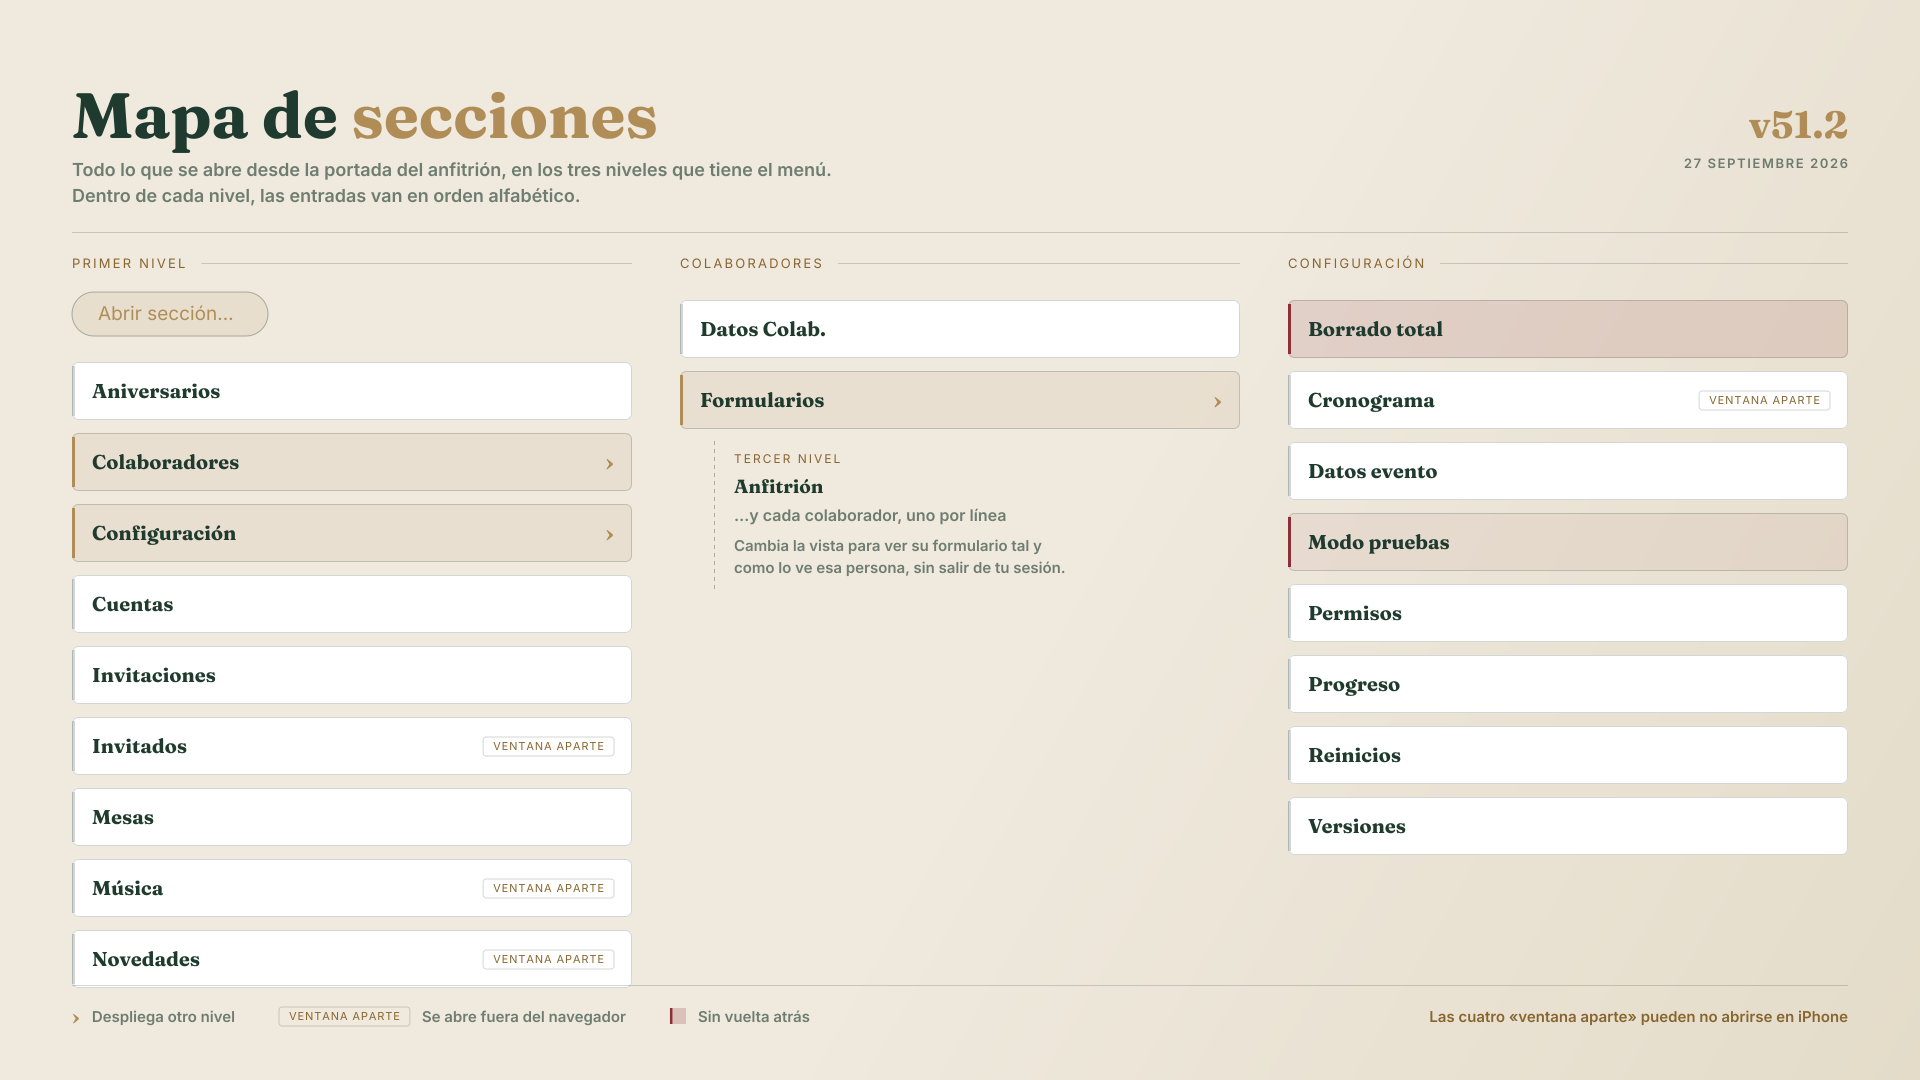
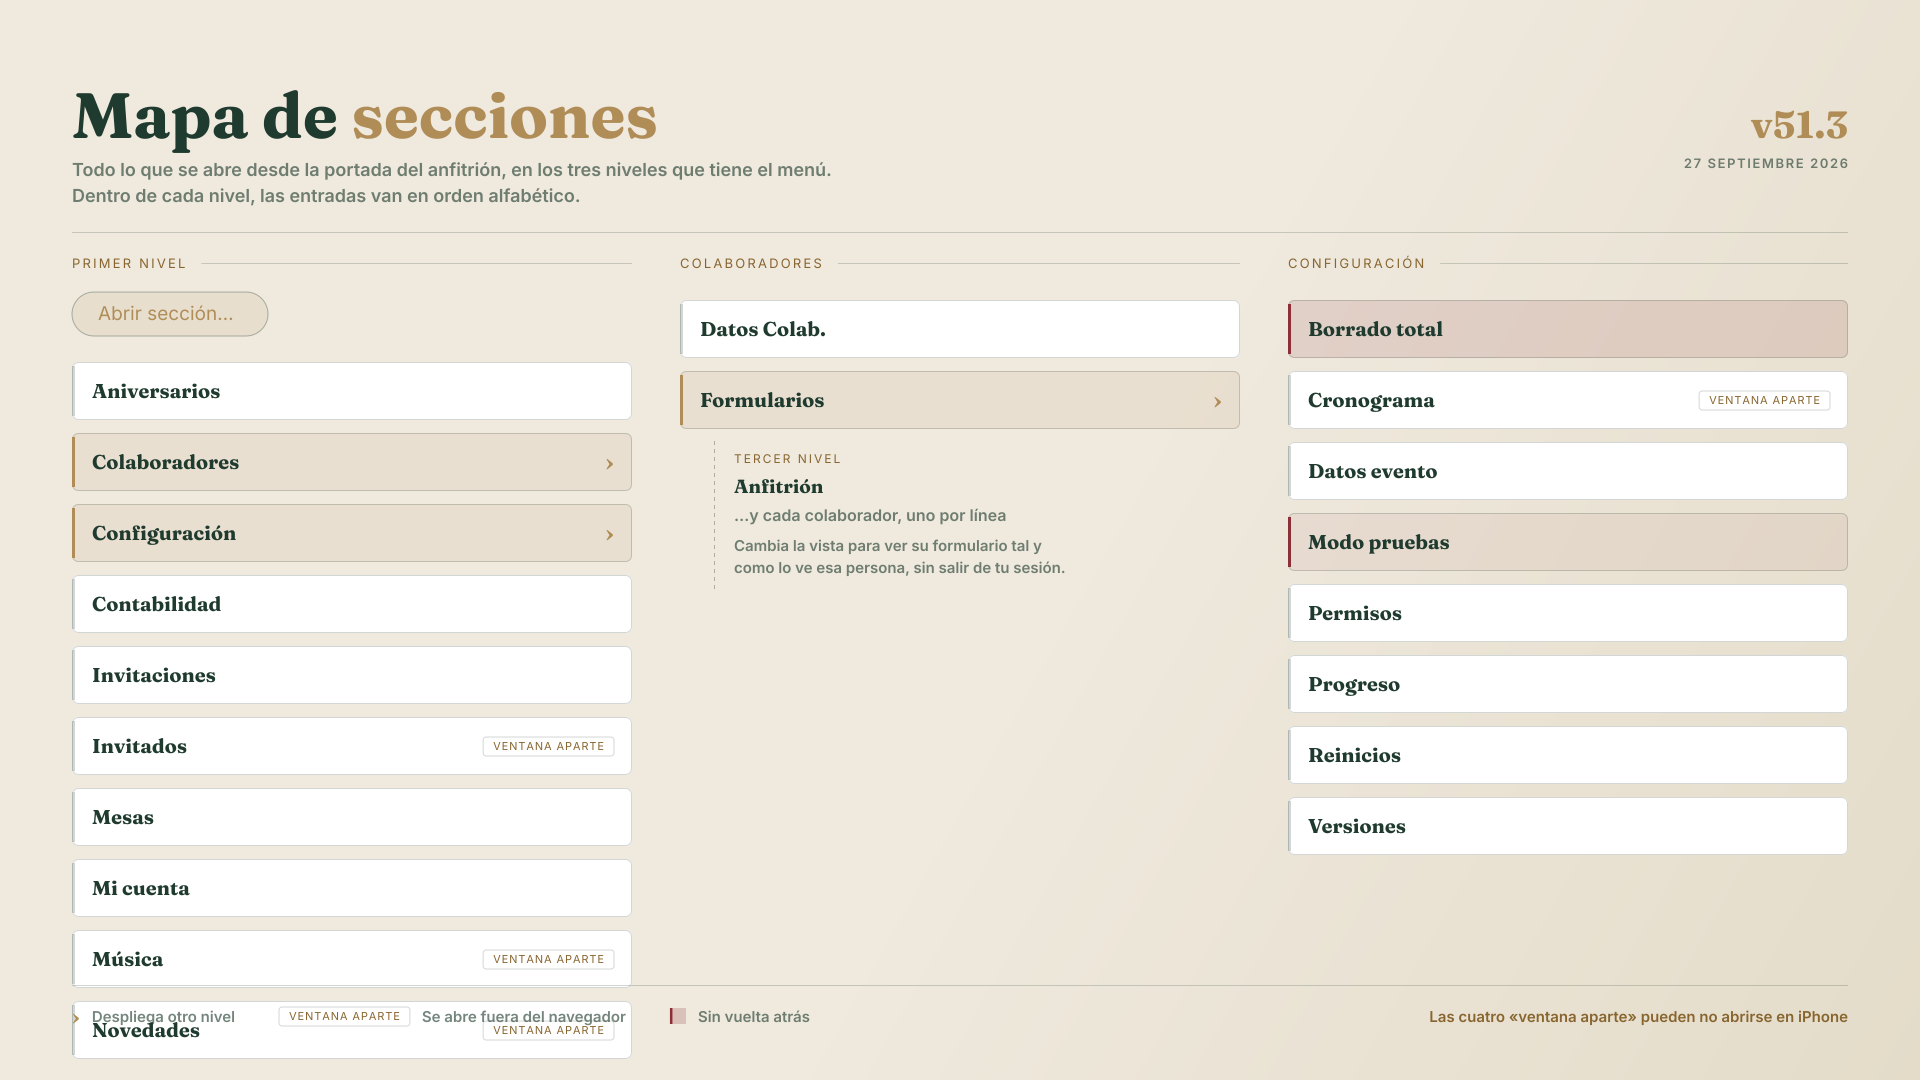
51.3: «Cuentas» pasa a «Contabilidad» y «Mi cuenta» en champán en el menú

diff --git a/src/vistas/VistaColaborador.jsx b/src/vistas/VistaColaborador.jsx
@@ -36,7 +36,7 @@ import { SectionTitle, Field, TextInput } from "../components/Formulario";
 import { ModalFlotante, VentanaFlotante } from "../components/VentanaFlotante";
 import { HuecoFoto, estiloMarcoFoto } from "../components/HuecoFoto";
 import { SeccionPlegable } from "../components/SeccionPlegable";
-import { BotonAbrirSeccion } from "../components/DesplegableSecciones";
+import { BotonAbrirSeccion, ESTILO_MI_CUENTA } from "../components/DesplegableSecciones";
 import { Boton, estilosBoton, EnlaceTexto } from "../components/Boton";
 import { usePreguntaSeguridad } from "../components/PreguntaSeguridad";
 import { Portada } from "../components/Portada";
@@ -1216,7 +1216,7 @@ export function VistaColaborador({ data, colaboradorId, esAnfitrionOriginal, set
                 puedeEditarDatosEvento && { id: "datos-evento", etiqueta: "Datos evento", icono: Calendar, onClick: () => setVentanaDatosEventoAbierta(true) },
                 { id: "formulario", etiqueta: "Formulario", icono: ClipboardList, onClick: () => setFormularioAbierto(true), sello: pendientes.length },
                 puedeEnviarInvitaciones && { id: "invitaciones", etiqueta: "Invitaciones", icono: Send, onClick: () => setVentanaInvitacionesAbierta(true) },
-                onCerrarSesion && { id: "mi-cuenta", etiqueta: "Mi cuenta", icono: UserCog, onClick: () => setMiCuentaAbierta(true) },
+                onCerrarSesion && { id: "mi-cuenta", etiqueta: "Mi cuenta", icono: UserCog, onClick: () => setMiCuentaAbierta(true), ...ESTILO_MI_CUENTA },
                 puedeEditarNovedades && { id: "novedades", etiqueta: "Novedades", icono: Megaphone, onClick: abrirNovedades },
               ].filter(Boolean)}
             />
@@ -1300,7 +1300,7 @@ export function VistaColaborador({ data, colaboradorId, esAnfitrionOriginal, set
 
             <SeccionPlegable
               icono={Euro}
-              titulo="Estado de cuentas"
+              titulo="Contabilidad"
               resumen={`Pendiente ${formatoEuro(importePendiente)}`}
               abierta={abiertoId === "cuentas"}
               onAlternar={() => setAbiertoId((a) => (hayFicha(a) ? a : a === "cuentas" ? null : "cuentas"))}

diff --git a/src/components/DesplegableSecciones.jsx b/src/components/DesplegableSecciones.jsx
@@ -76,6 +76,12 @@ export const SUBMENU_CONFIGURACION = [
   { id: "versiones", etiqueta: "Versiones", icono: History },
 ];
 
+// "Mi cuenta" es una línea especial, pero no de peligro (él, v51.3): relleno
+// champán y letra verde, con el mismo contorno dorado que las demás. El
+// rojo se queda para lo que borra (Borrado total, Modo pruebas). La misma
+// en el menú del anfitrión y en el del colaborador (norma 7).
+export const ESTILO_MI_CUENTA = { fondo: C.champanClaro, color: C.ink };
+
 // `posicion`: dónde flota el botón dentro de su contenedor (por defecto,
 // esquina inferior derecha) -- Portada.jsx lo reposiciona sobre la propia
 // imagen ("a los pies de la pareja", a petición del usuario, 2026-08-12),
@@ -209,6 +215,7 @@ export function DesplegableSecciones({
       etiqueta: "Mi cuenta",
       icono: UserCog,
       onClick: abrirMiCuenta,
+      ...ESTILO_MI_CUENTA,
     });
   }
 

diff --git a/src/vistas/anfitrion/VentanasClave.pantalla.test.jsx b/src/vistas/anfitrion/VentanasClave.pantalla.test.jsx
@@ -1,4 +1,4 @@
-// Cronograma y Estado de cuentas, DIBUJADAS de verdad.
+// Cronograma y Contabilidad, DIBUJADAS de verdad.
 //
 // Las otras dos que faltaban tras la Lista de invitados y la pantalla del
 // colaborador: el Cronograma porque es la que más se toca, y Cuentas
@@ -97,12 +97,12 @@ describe("el Cronograma se puede dibujar", () => {
   });
 });
 
-describe("Estado de cuentas se puede dibujar", () => {
+describe("Contabilidad se puede dibujar", () => {
   const dibujar = (extra = {}) =>
     dibujarYSoltar(<VentanaCuentas data={{ ...data, ...extra }} onCerrar={() => {}} />);
 
   it("con sus tres partes plegadas", () => {
-    expect(dibujar()).toContain("Estado de cuentas");
+    expect(dibujar()).toContain("Contabilidad");
   });
 
   it("sin gastos y sin colaboradores tampoco se cae", () => {

diff --git a/src/vistas/anfitrion/VentanaVersiones.jsx b/src/vistas/anfitrion/VentanaVersiones.jsx
@@ -42,6 +42,12 @@ const RESUMEN_VERSIONES_ANTERIORES = [
 // leer de un vistazo.
 const HISTORIAL_VERSIONES = [
   {
+    version: "51.3",
+    cambios: [
+      "\"Cuentas\" se llama ahora \"Contabilidad\", en el menú, en su ventana y en el panel del colaborador: así no se confunde con \"Mi cuenta\". Y \"Mi cuenta\" se distingue en el menú con fondo champán y letra verde, sin el rojo, que se queda para lo que borra.",
+    ],
+  },
+  {
     version: "51.2",
     cambios: [
       "El sello rojo vuelve a la derecha, como en \"Abrir sección…\". En las líneas del menú va montado sobre el final del texto, para que el borde no lo corte.",

diff --git a/scripts/dibujar-mapa.test.js b/scripts/dibujar-mapa.test.js
@@ -37,7 +37,8 @@ function etiquetasDelScript(nombre) {
 
 describe("el plano de la aplicación lista las mismas secciones que el menú", () => {
   it("primer nivel: las secciones de \"Abrir sección...\"", () => {
-    const enLaApp = ORDEN_VENTANAS.map((clave) => ETIQUETAS_VENTANAS[clave]);
+    // "Mi cuenta" no es una ventana flotante, pero vive en el menú (v51).
+    const enLaApp = [...ORDEN_VENTANAS.map((clave) => ETIQUETAS_VENTANAS[clave]), "Mi cuenta"];
     expect(etiquetasDelScript("nivel1").sort()).toEqual([...enLaApp].sort());
   });
 

diff --git a/src/constants.js b/src/constants.js
@@ -1,6 +1,6 @@
 // Constantes de app compartidas entre App.jsx y los componentes bajo
 // src/components/. Movida fuera de App.jsx en el reparto del 2026-08-08.
-export const VERSION_APP = "51.2";
+export const VERSION_APP = "51.3";
 
 // Dirección del código de la app. La enseña "Mi cuenta" a quien tenga el
 // permiso "Ver el código de la app" (lib/permisos.js).

diff --git a/src/components/VentanaFlotante.jsx b/src/components/VentanaFlotante.jsx
@@ -120,7 +120,8 @@ export const ETIQUETAS_VENTANAS = {
   mesas: "Mesas",
   invitaciones: "Invitaciones",
   invitados: "Invitados",
-  cuentas: "Cuentas",
+  // "Contabilidad" (antes "Cuentas"): se confundía con "Mi cuenta" (él, v51.3).
+  cuentas: "Contabilidad",
   configuracion: "Configuración",
   versiones: "Versiones",
   novedades: "Novedades",

diff --git a/src/vistas/anfitrion/VentanaCuentas.jsx b/src/vistas/anfitrion/VentanaCuentas.jsx
@@ -206,7 +206,7 @@ export function VentanaCuentas({ data, onCerrar }) {
 
   return (
     <>
-    <VentanaFlotante clave="cuentas" titulo="Estado de cuentas" onCerrar={onCerrar}>
+    <VentanaFlotante clave="cuentas" titulo="Contabilidad" onCerrar={onCerrar}>
       <div className="space-y-2">
       <SeccionPlegable
         icono={Calculator}
